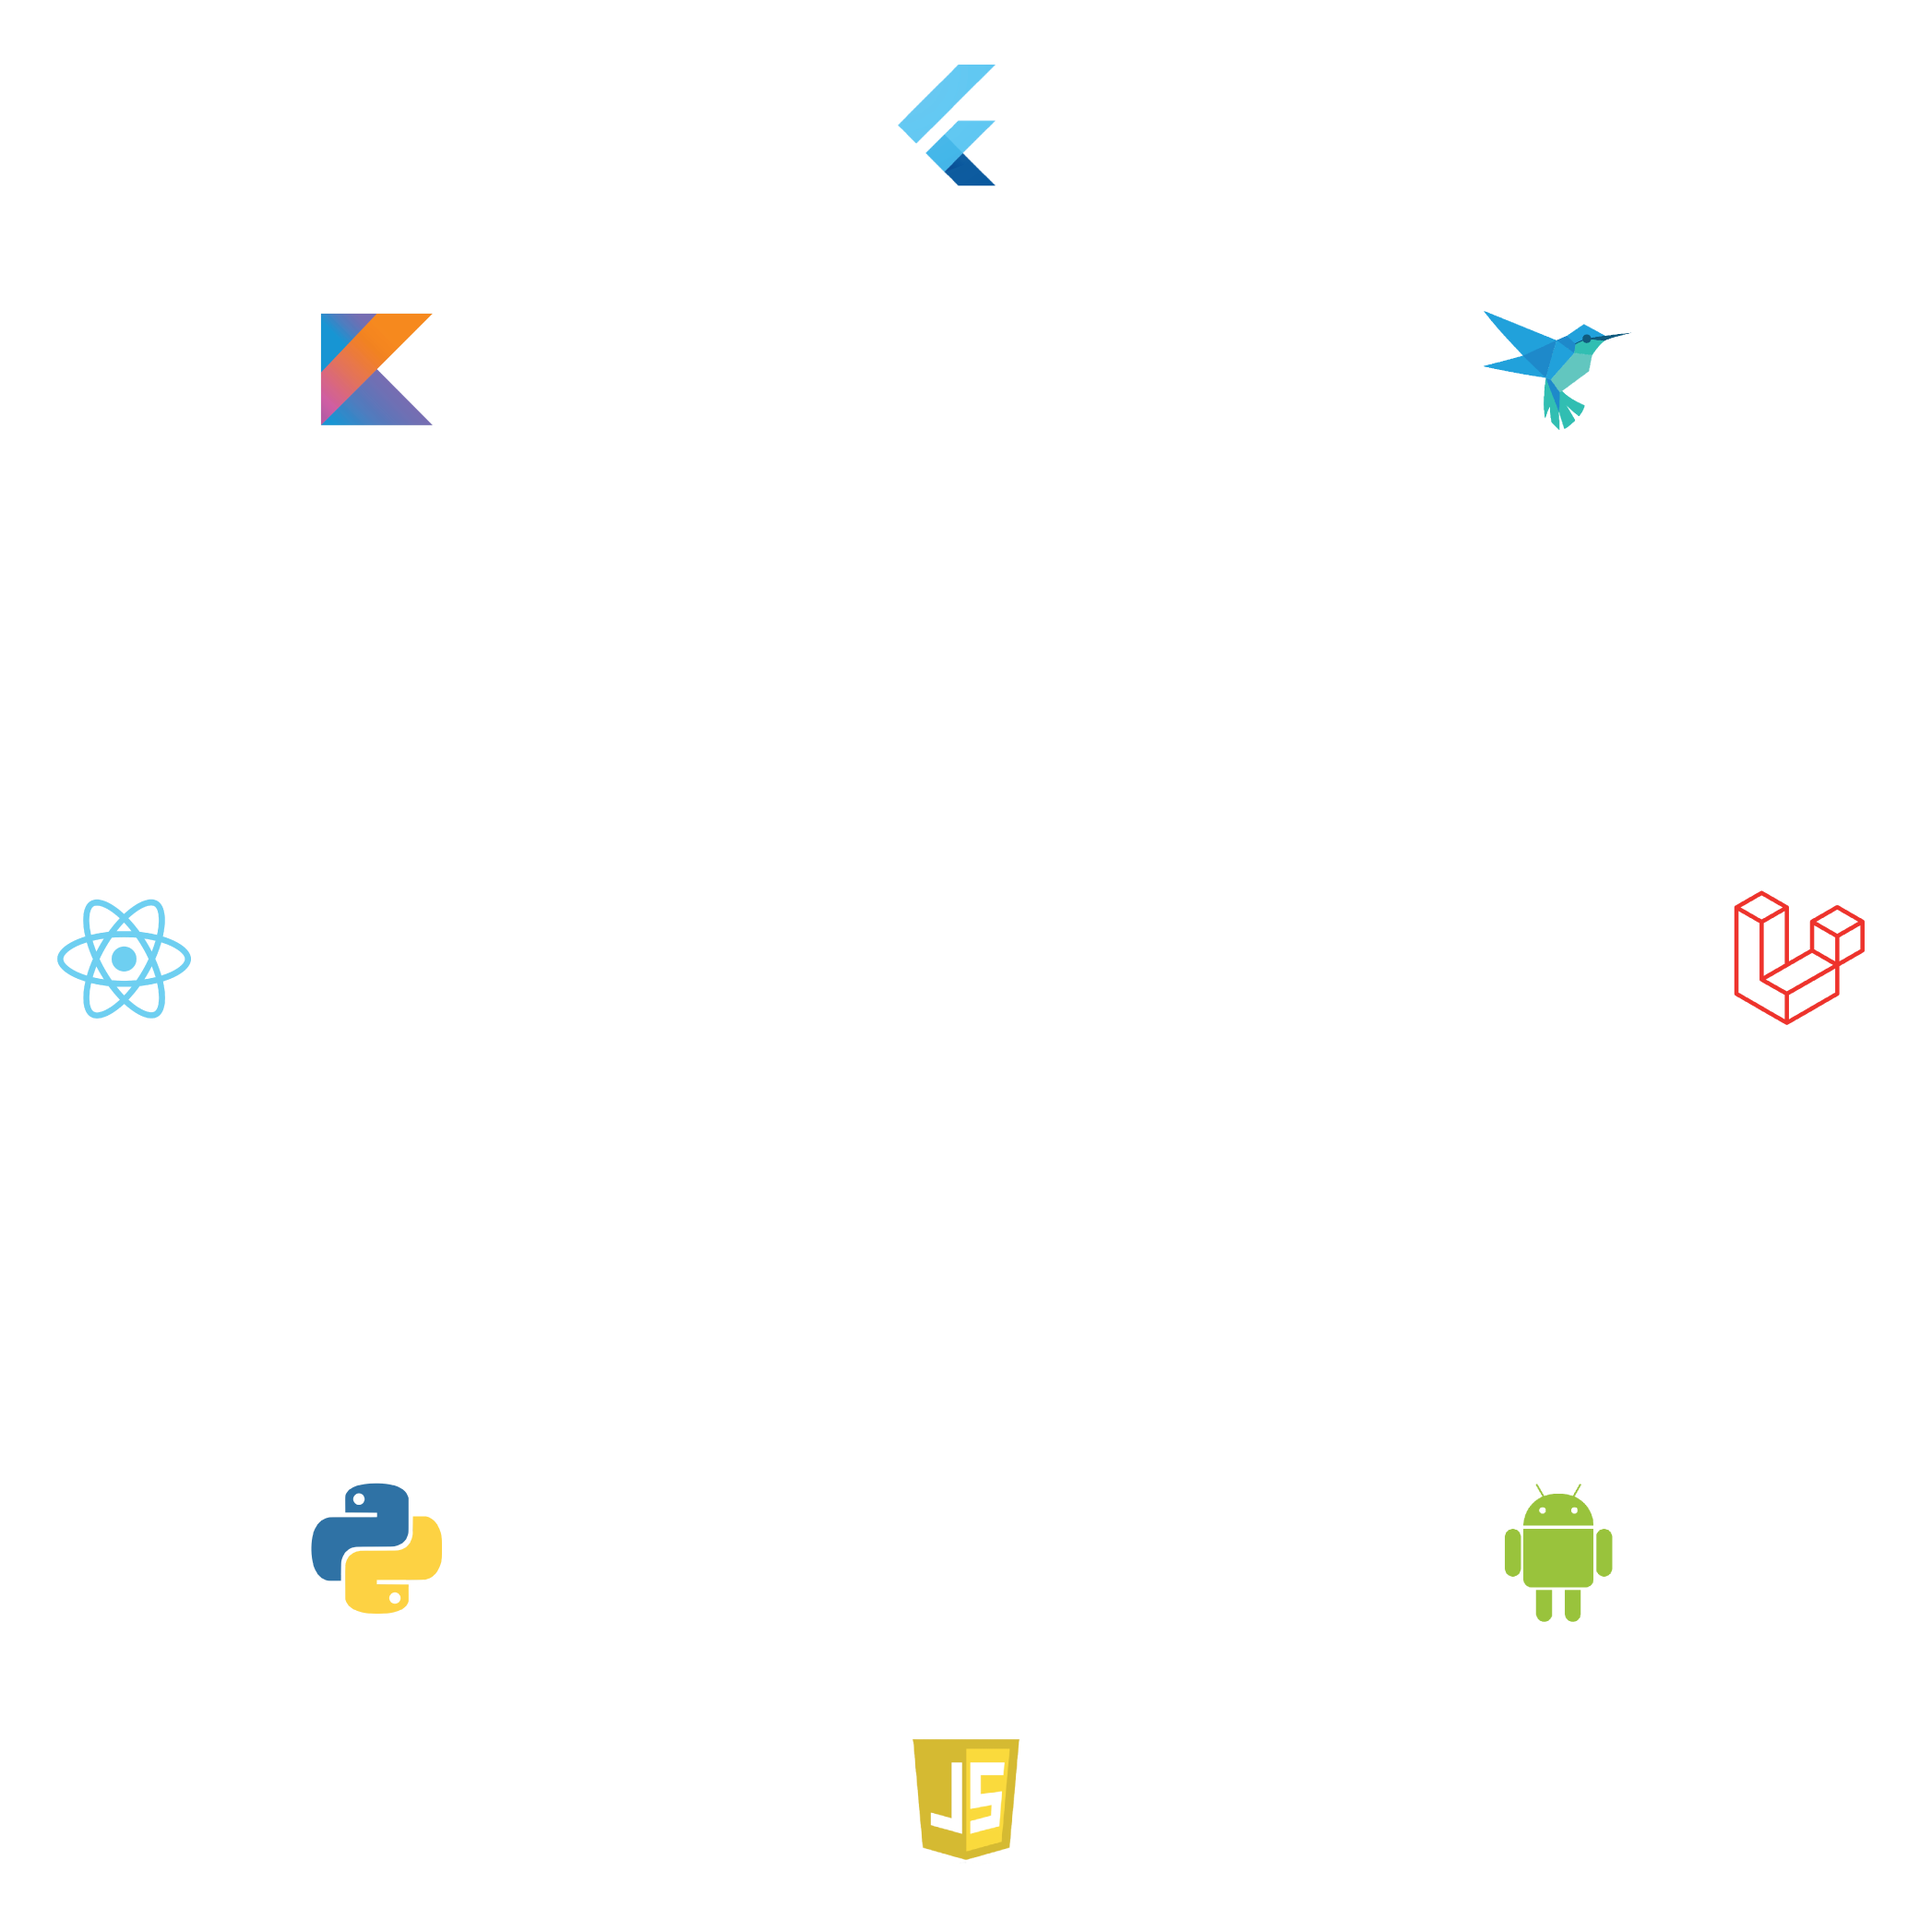
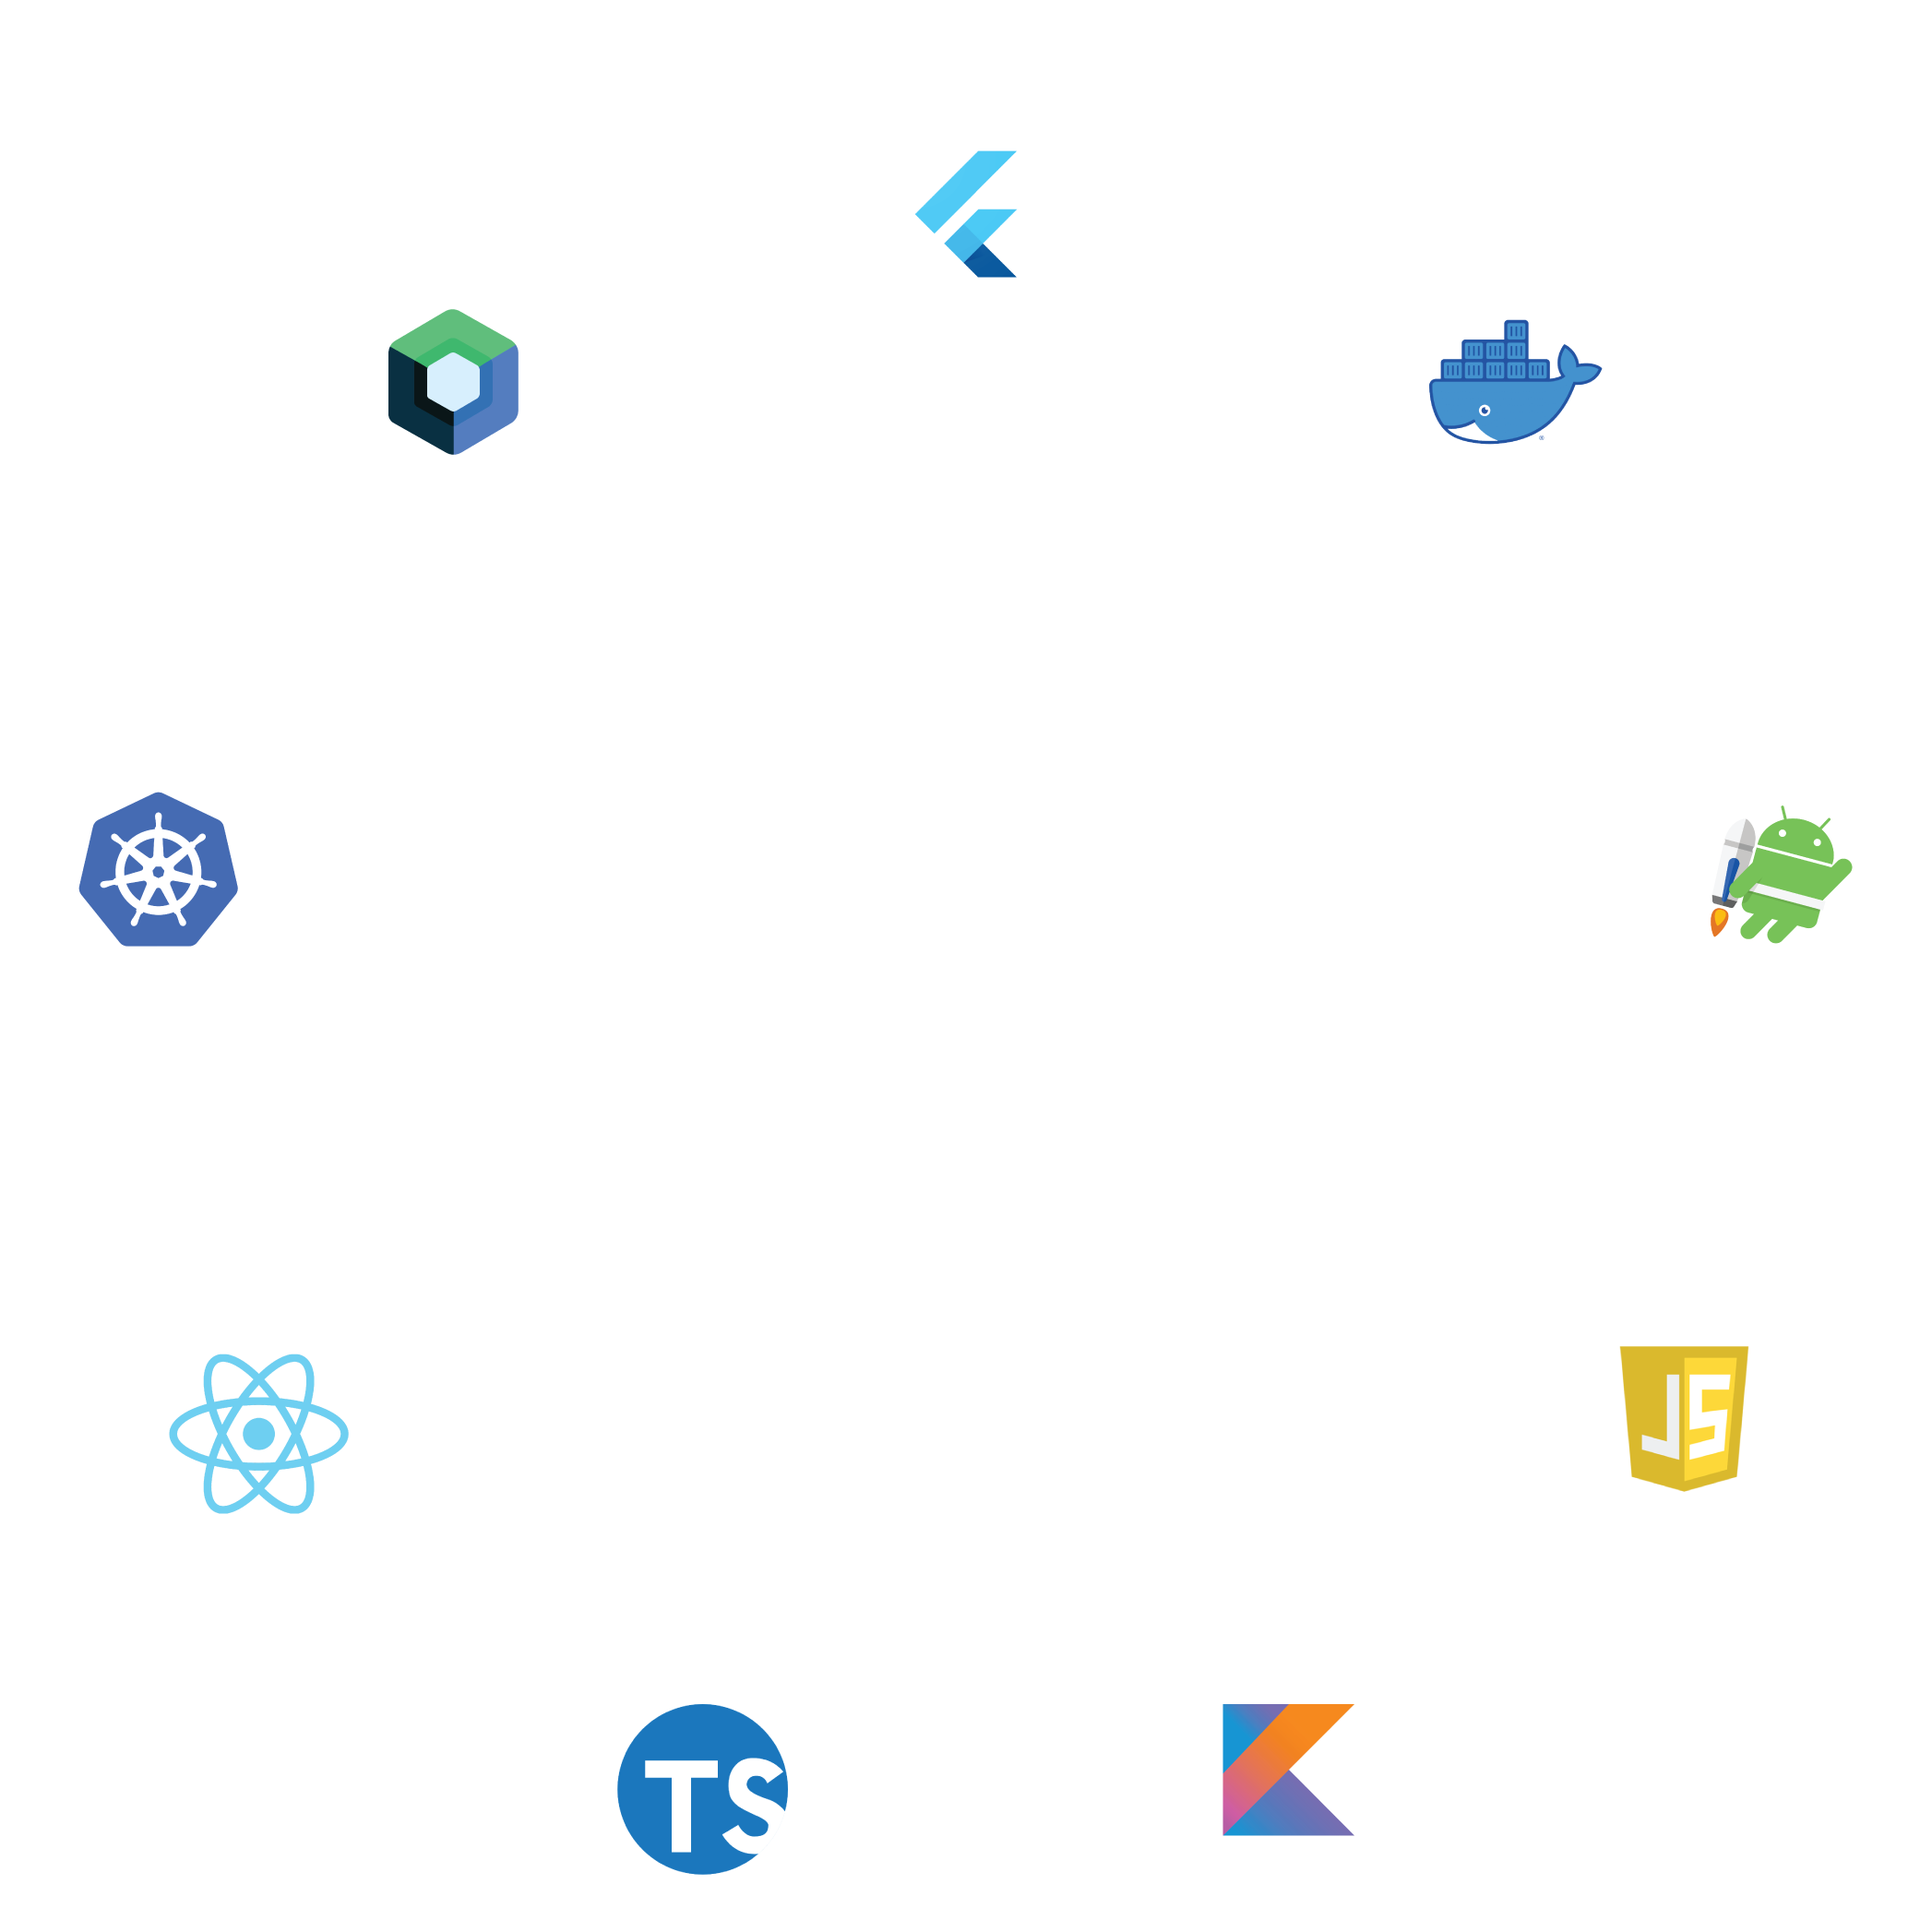
add dash image

diff --git a/lib/presentation/pages/home/widgets/home_page_header.dart b/lib/presentation/pages/home/widgets/home_page_header.dart
@@ -1,3 +1,4 @@
+import 'package:flutter/material.dart';
 import 'package:portfolio/core/layout/adaptive.dart';
 import 'package:portfolio/core/utils/functions.dart';
 import 'package:portfolio/presentation/pages/home/widgets/scroll_down.dart';
@@ -11,7 +12,6 @@ import 'package:portfolio/presentation/widgets/animated_slide_transtion.dart';
 import 'package:portfolio/presentation/widgets/animated_text_slide_box_transition.dart';
 import 'package:portfolio/presentation/widgets/spaces.dart';
 import 'package:portfolio/values/values.dart';
-import 'package:flutter/material.dart';
 import 'package:responsive_builder/responsive_builder.dart';
 
 const kDuration = Duration(milliseconds: 600);
@@ -128,7 +128,7 @@ class _HomePageHeaderState extends State<HomePageHeader>
 
     return Container(
       width: screenWidth,
-      color: AppColors.accentColor2.withOpacity(0.35),
+      color: AppColors.accentColor2.withValues(alpha: 0.35),
       child: Stack(
         children: [
           Container(
@@ -147,25 +147,25 @@ class _HomePageHeaderState extends State<HomePageHeader>
                 children: [
                   Container(
                     padding: padding,
-                    child: AnimatedSlideTranstion(
-                      controller: controller,
-                      position: animation,
-                      child: Stack(
-                        children: [
-                          RotationTransition(
-                            turns: rotationController,
-                            child: Image.asset(
-                              ImagePath.DEV_SKILLS_2,
-                              width: screenWidth,
-                            ),
-                          ),
-                          // Image.asset(
-                          //   ImagePath.DEV_MEDITATE,
-                          //   width: screenWidth,
-                          // ),
-                        ],
-                      ),
-                    ),
+                    // child: AnimatedSlideTranstion(
+                    //   controller: controller,
+                    //   position: animation,
+                    //   child: Stack(
+                    //     children: [
+                    //       RotationTransition(
+                    //         turns: rotationController,
+                    //         child: Image.asset(
+                    //           ImagePath.DEV_SKILLS_2,
+                    //           width: screenWidth,
+                    //         ),
+                    //       ),
+                    //       Image.asset(
+                    //         ImagePath.DEV_CENTER,
+                    //         width: screenWidth * 0.35,
+                    //       ),
+                    //     ],
+                    //   ),
+                    // ),
                   ),
                   Container(
                     padding: padding.copyWith(top: 0),
@@ -208,10 +208,10 @@ class _HomePageHeaderState extends State<HomePageHeader>
                               width: screenWidth * 0.35,
                             ),
                           ),
-                          // Image.asset(
-                          //   ImagePath.DEV_MEDITATE,
-                          //   width: screenWidth * 0.35,
-                          // ),
+                          Image.asset(
+                            ImagePath.DEV_CENTER,
+                            width: screenWidth * 0.35,
+                          ),
                         ],
                       ),
                     ),

diff --git a/lib/values/images.dart b/lib/values/images.dart
@@ -20,7 +20,7 @@ class ImagePath {
   static const String MEDITATION = "$imageDir/meditation.png";
   static const String ABOUT_PORTRAIT = "$imageDir/about_portrait.png";
   static const String DEV_ABOUT = "$imageDir/dev-about.jpg";
-  static const String DEV_MEDITATE = "$imageDir/dev_meditate.png";
+  static const String DEV_CENTER = "$imageDir/d.png";
 
   static const String DEV_SKILLS = "$imageDir/skills.png";
   static const String DEV_SKILLS_1 = "$imageDir/skills1.png";
